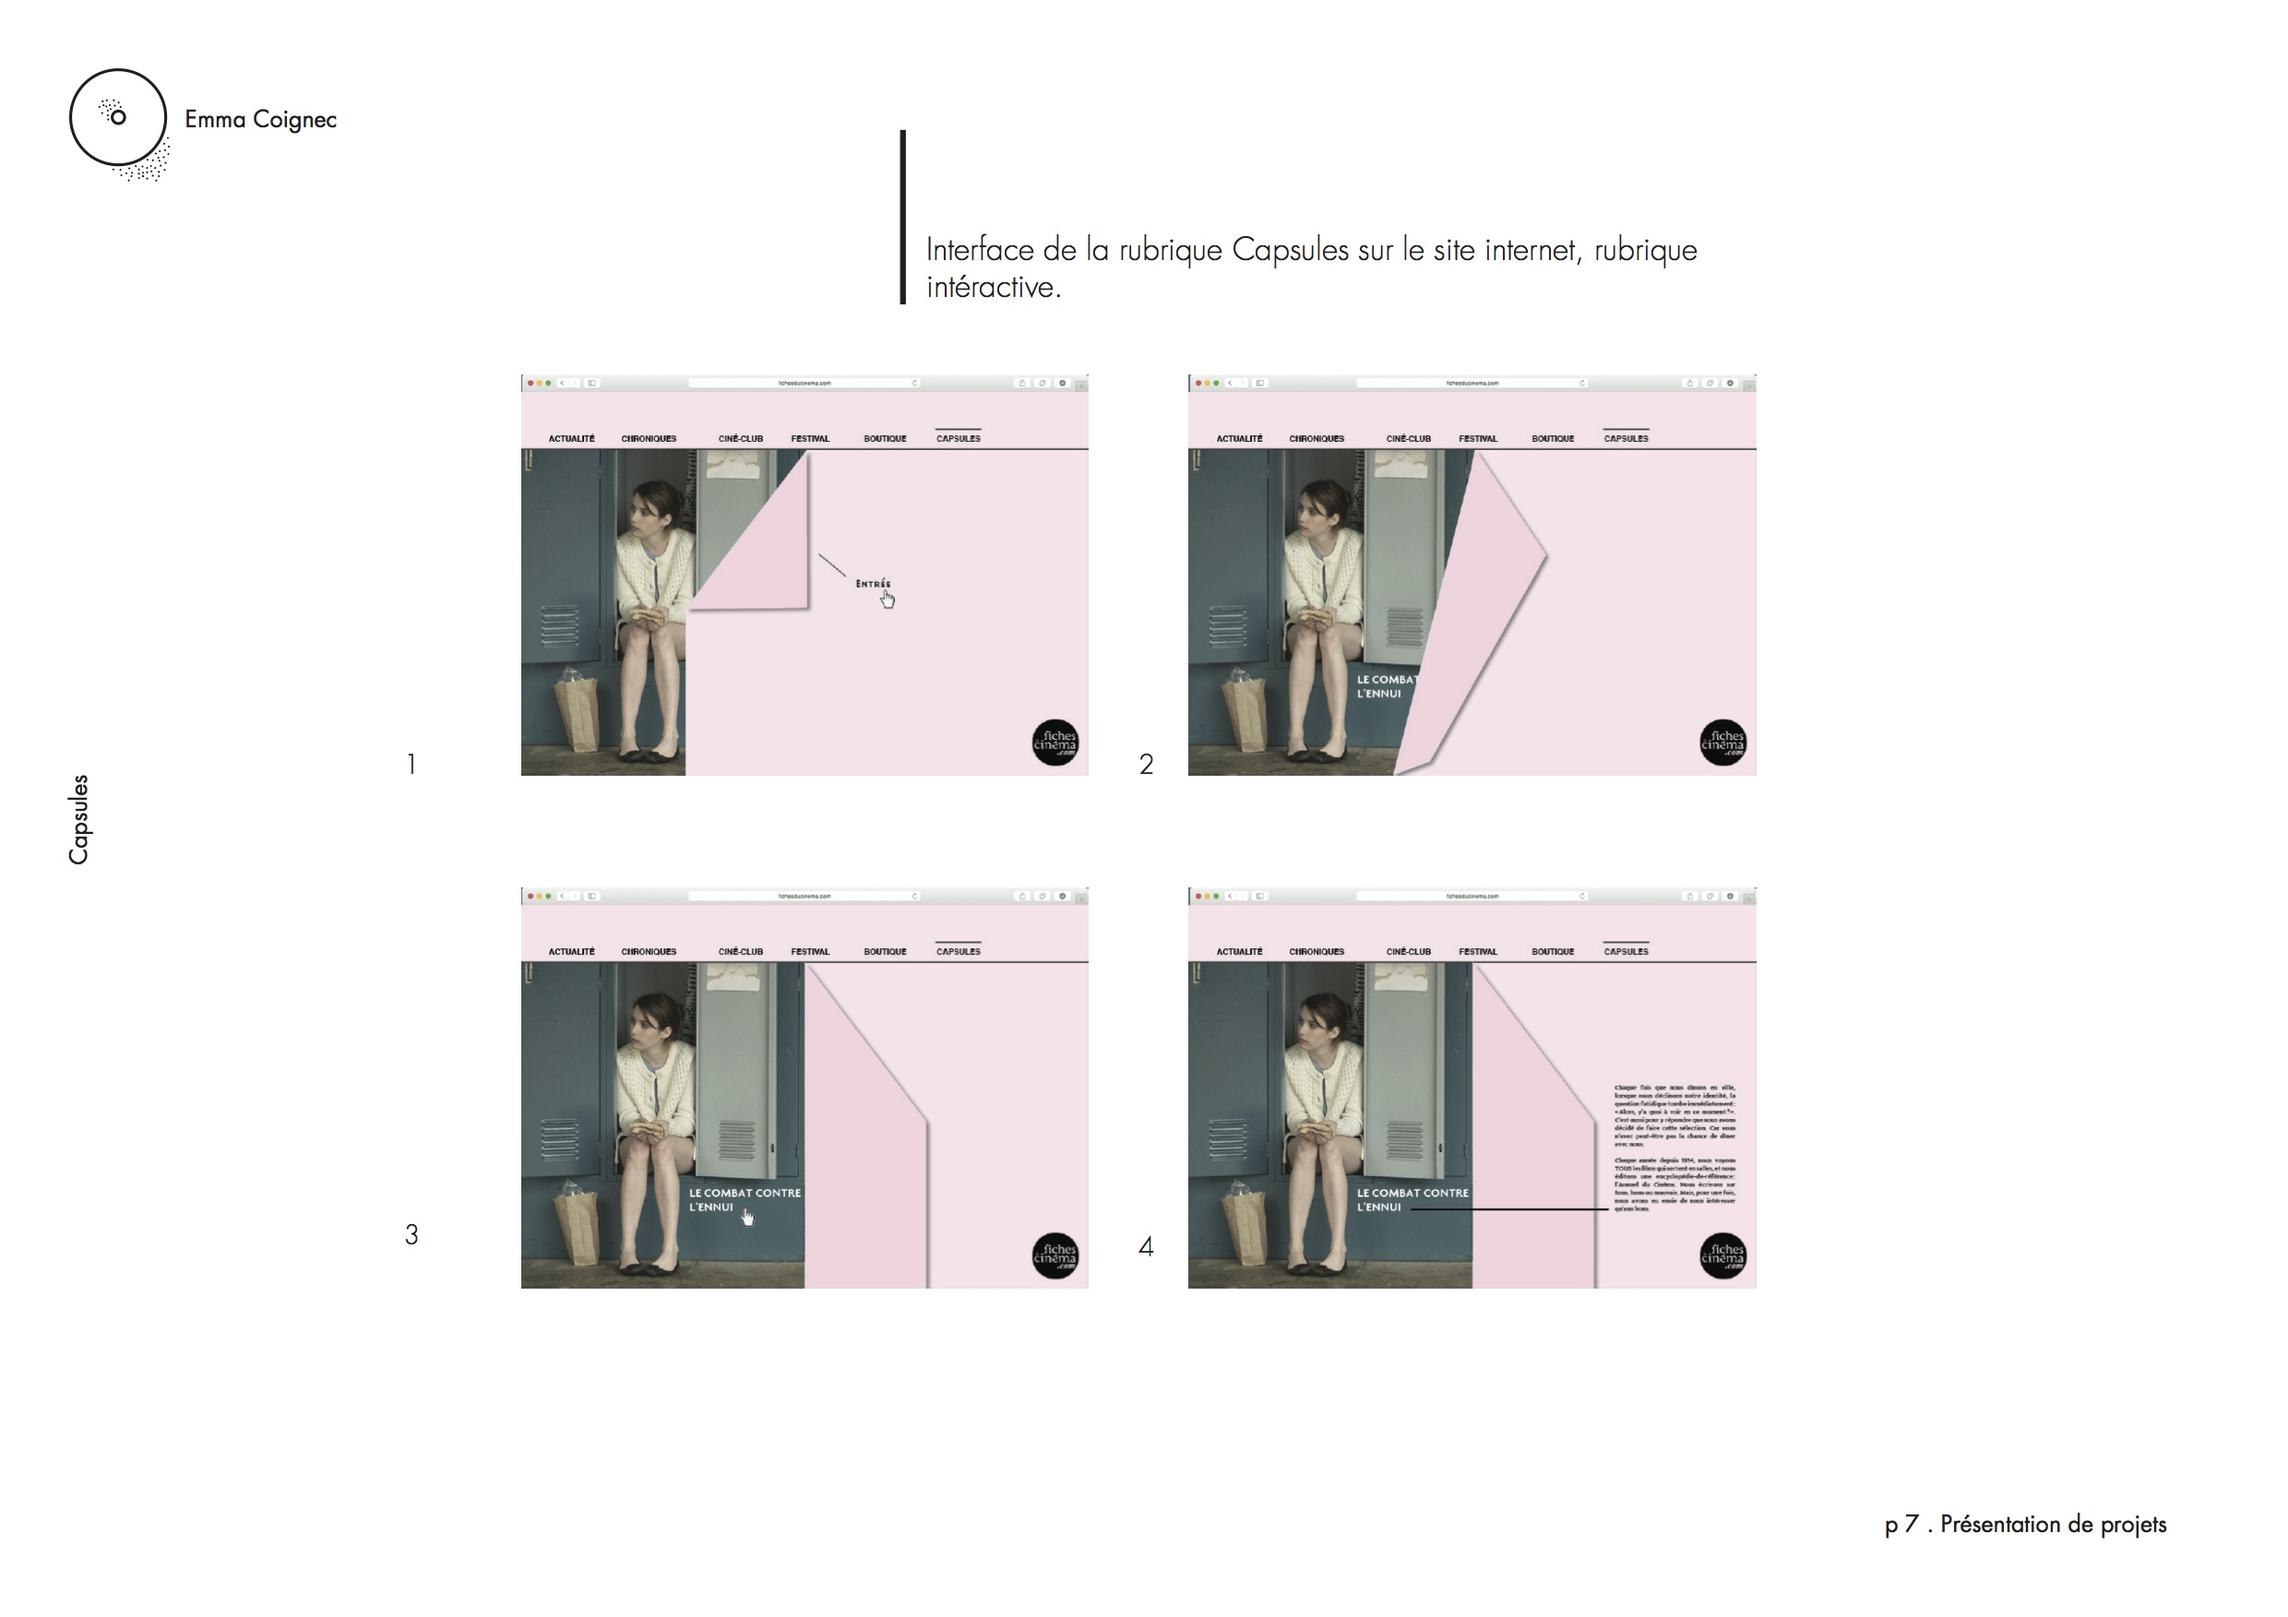
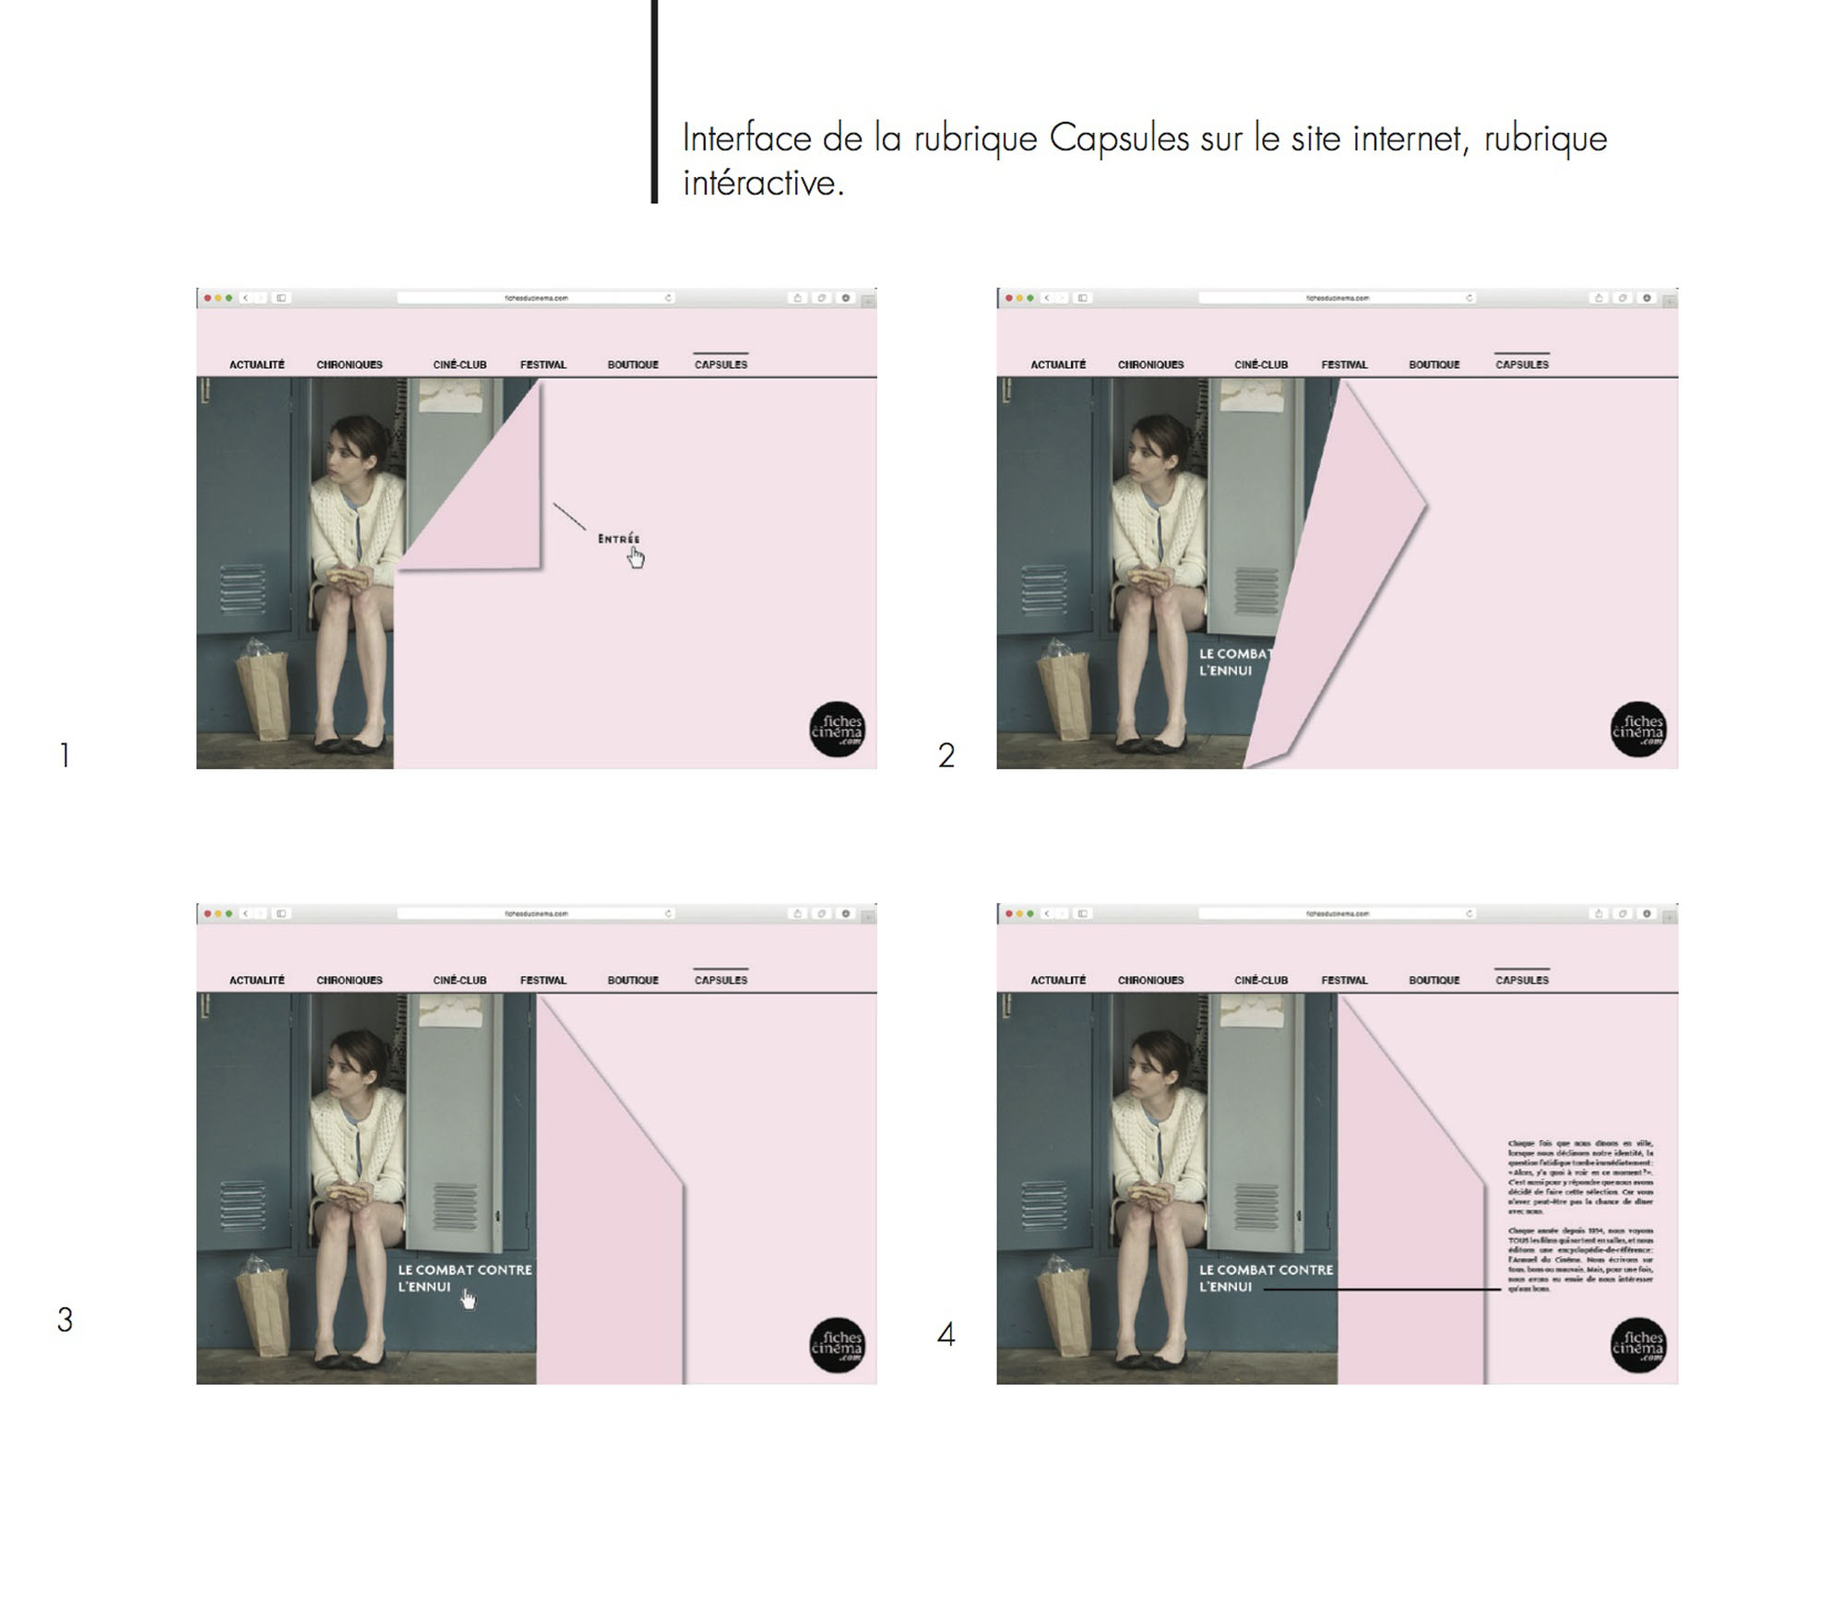
finition Capsules

diff --git a/categories/edition.html b/categories/edition.html
@@ -123,8 +123,17 @@
                   <div class="slide">
                     <img src="./../images/capsules031.jpg">
                   </div>
+                  <div class="slide">
+                    <img src="./../images/capsules022.jpg">
+                  </div>
+                  <div class="slide">
+                    <img src="./../images/capsules033.jpg">
+                  </div>
+                  <div class="slide">
+                    <img src="./../images/capsules036.jpg">
+                  </div>
                 <div class="slide">
-                  <img src="./../images/typogra_paysage.jpg">
+                  <img src="./../images/capsules032.jpg">
                 </div>
               </div>
             </div>
@@ -164,7 +173,7 @@
               </div>
             </div>
             <div class="projet-texte">
-              <h3>titre :)</h3>
+              <h3>Rapport de Stage n°1</h3>
               <p>Lorem ipsum dolor sit amet, consectetur adipisicing elit. Earum dolorum ullam nihil ea ratione itaque provident, eum aliquam dignissimos ipsa nam nemo, et, ex, expedita voluptatem quidem ducimus neque nisi.</p>
               <p>Lorem ipsum dolor sit amet, consectetur adipisicing elit. Maxime nostrum nesciunt esse optio rerum distinctio at ut molestias assumenda, quasi magnam vero, repellat totam, fuga voluptas repellendus soluta architecto quaerat.</p>
             </div>
